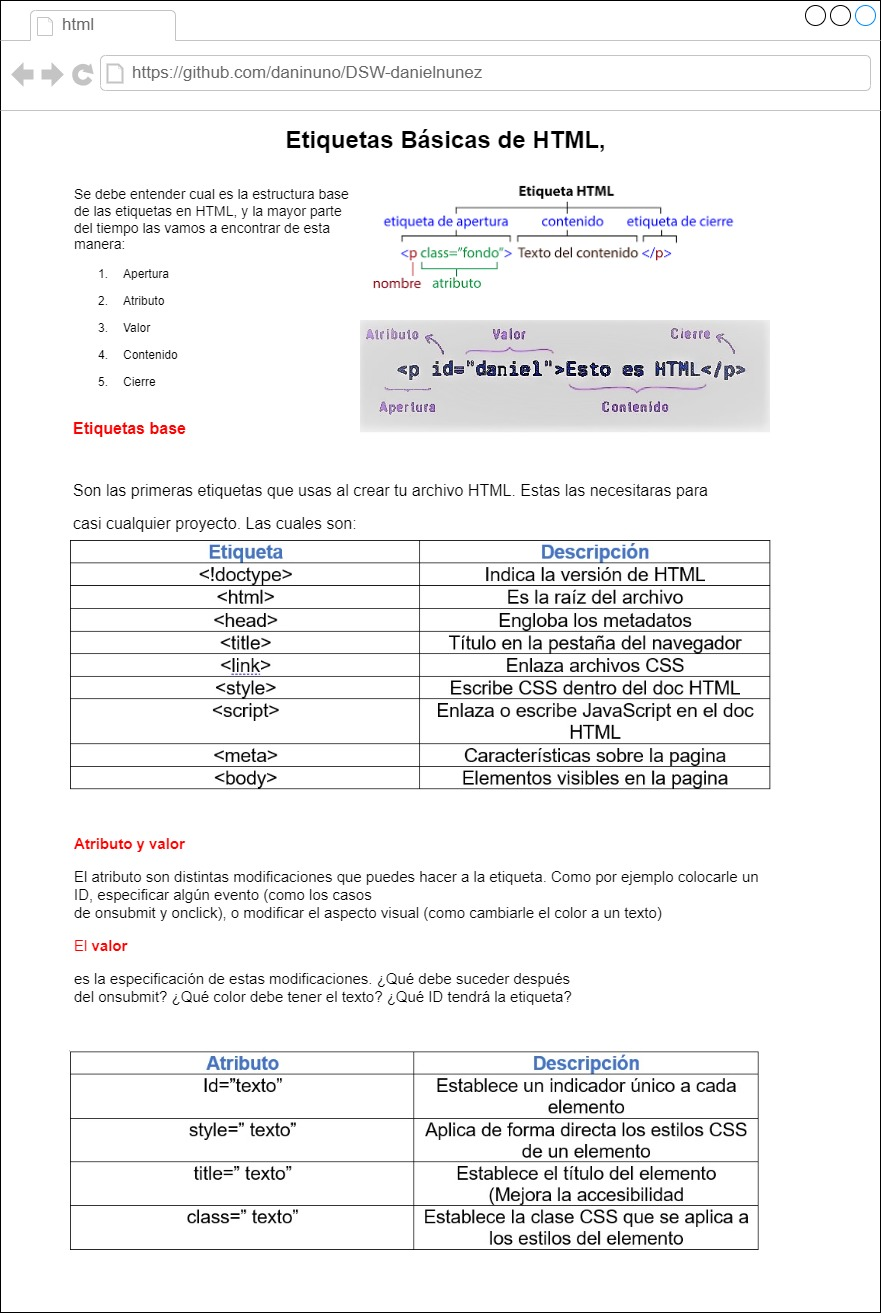
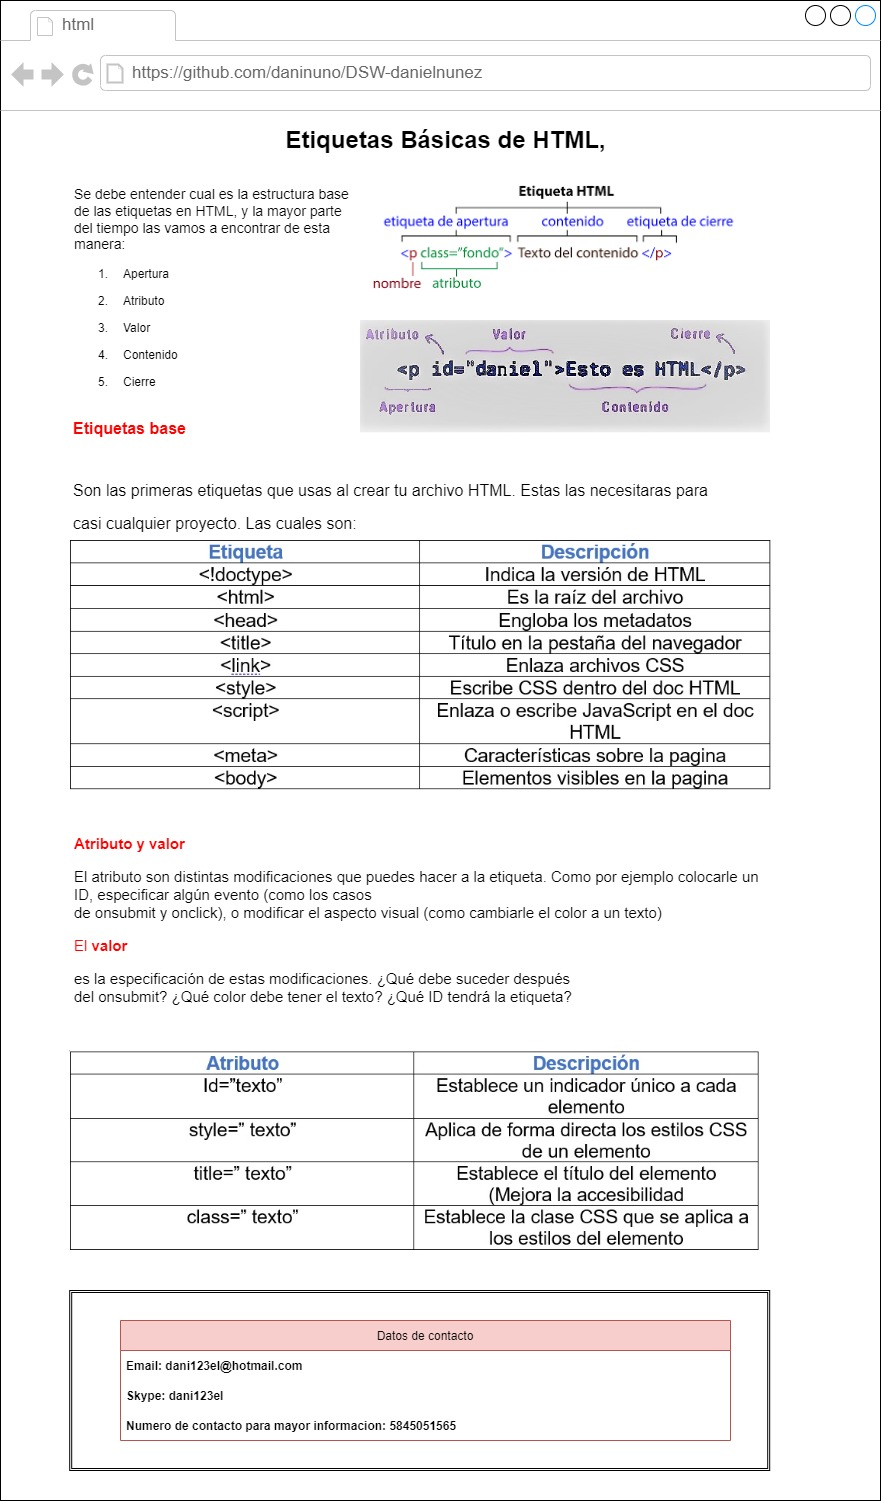
complementando
se realizan cambios en el los diferentes parrafos y se adicionan imagenes con recuadros interactivos

diff --git a/fase 2/design.html b/fase 2/design.html
@@ -13,29 +13,30 @@
     <nav>
       <ul>
         <li>Inicio</li>
-        <li>Temas que vamos a ver como inicio al mundo del html las cuales son</li>
+        <li>Temas que vamos a ver para dar inicio al mundo del html, las cuales son:</li>
         <ul>
-          <li>Etiquetas basicas</li>
-          <li>atributos y valores</li>
+          <h4><li>Etiquetas basicas</li></h4>
+          <h4><li>atributos y valores</li></h4>
         </ul>
-        <li>Aqui les vamos a compartir los recursos para el estudio de los temas</li>
+        <h4><li>Aqui les vamos a compartir los recursos para dar inicio al estudio de los temas:</li></h4>
         <ul>
-          <li>En este primer recurso encontraremos un rucuadro con las etiquetas base del html</li>
+          <li>En este primer recurso encontraremos un rucuadro con estructura y la semántica de la página web.</li>
           <br>
-          <img src="imagenes/para-la-base.jpg" alt="Etiquetas base" height="350"width="650">
+          <img src="imagenes/etiquetas-atributos-html.png" alt="estructura" height="125"width="500">
           <br>
           <br>
-          <li>En este segundo recurso en veremos en recuadro para enteder mejor el concepto;<br> 
-            El atributo son distintas modificaciones que puedes hacer a la etiqueta</li>
+          <li>En este segundo recurso veremos en recuadro para enteder mejor el concepto del atributo.</li>
             <br>
-            <img src="imagenes/atributos.jpg" alt="Etiquetas base" height="300"width="600">
+            <img src="imagenes/estructura.jpg" alt="concepto base" height="125"width="500">
         </ul>
+        <br>
         <li>En esta recurso interactivo de aprendizaje vamos a entender las bases de una pagina web<br>
-          en cuanto a lo que se regiere a entiquetas y atributos; y como se realiza el uso de <br>
-          los valores en estas.
+          en cuanto hablamos de etiquetas a que se refieren y los atributos; y como se realiza el uso de <br>
+          los valores en estos.
         </li>
-        <li>Mi nobre es daniel Nuñez Ortega, soy diseñador Web de La empresa HtmlDesign <br> 
-          y estudiante de, ingenieria de sistemas de la UNAD)</li>
+        
+        <h4><li>Mi nobre es daniel Nuñez Ortega, soy diseñador Web de La empresa HtmlDesign <br> 
+          y estudiante de ingenieria de sistemas en la UNAD)</li></h4>
       </ul>
     </nav>
     <section>
@@ -47,7 +48,7 @@
         estrategias de aprendizaje."  
         <br>
         La empresa HtmlDesign, de la que soy Diseñador Web me ha contratado por la universidad del<br>
-        Estado para diseñar un obeto virtual de aprendizaje, para tratar los temas de Diseño de Sitios Web.<br>
+        Estado para diseñar un objeto virtual de aprendizaje, para tratar los temas de Diseño de Sitios Web.<br>
         <br>
         En esta primera etapa tiene como proposito dar inicio a los primeros pasos para el diseño y<br>
         la construcción de tu primer sitio web . <br>
@@ -57,27 +58,55 @@
          
       </p>
       <article>
-        <h3>
+        <h2>
           Etiqutas html
-        </h3>
+        </h2>
         <p>
-          tema1 seleccionado y con normasa apa 
+          <h3>Etiquetas base</h3>
+          <br>
+        Son las primeras etiquetas que usas al crear tu archivo HTML. Estas las necesitaras para casi <br>
+        cualquier proyecto. Las cuales te voy a presentar en una tabla estruturada para que lo comprendas
+        mejor:
+        <br>
         </p>
+        <img src="imagenes/para-la-base.jpg" alt="etiquetas base" height="430"width="600">
       </article>
       <article>
-        <h3>Mi mockup</h3>
-        <img src="imagenes/mockup.png" alt="Mi mockup" height="500"width="500">
+        <h2>Mi mockup</h2>
+        <p>
+          En esta imagen les presento un mockup mas detallado de como seria la pagina web ya finalizada
+          esta <br>tambien tendria las otras 5 sub paginas, de los otros 5 temas solicitados.
+        </p>
+        <img src="imagenes/Mockup.jpg" alt="Mi mockup" height="800"width="600">
       </article>
-      <h3>atributos y valores</h3>
+      <h2>atributos y valores</h2>
       <p>
-        investigacion del tema seleccionado 
+        El atributo son distintas modificaciones que puedes hacer a la etiqueta. Como por ejemplo colocarle<br>
+        un ID, especificar algún evento (como los casos de onsubmit y onclick), o modificar el aspecto visual
+        <br>(como cambiarle el color a un texto).
+        <br>
+        A un que en cada una de las etiquetas HTML define sus propios atributos, estos se dividen en cuatro <br>
+        grupos según funcionalidad los cuales son:
+        <br>
+        <ul>
+          <li>Atributos básicos</li>
+          <li>Atributos de internacionalización </li>
+          <li>Atributos de eventos </li>
+          <li>Atributos de foco</li>
+           </ul>
+<br>
+        Inicialmente y para no hacer esta pagina base tan extensa vamos a ver solo los atributos básicos<br>
+        en el siguiente recudro los podemos identificar:
+        <br>
       </p>
+      <img src="imagenes/atributos.jpg" alt="atributos" height="260"width="600">
     </article>
+    <br>
     <footer>
       <p>
         Emai : dani123el@hotmail.com <br>
         Skype: dani123el <br>
-        fhecha de altualizacion: Abril 13 de 2022
+        fecha de altualizacion: Abril 21 de 2022
       </p>
     </footer>
     </section>
